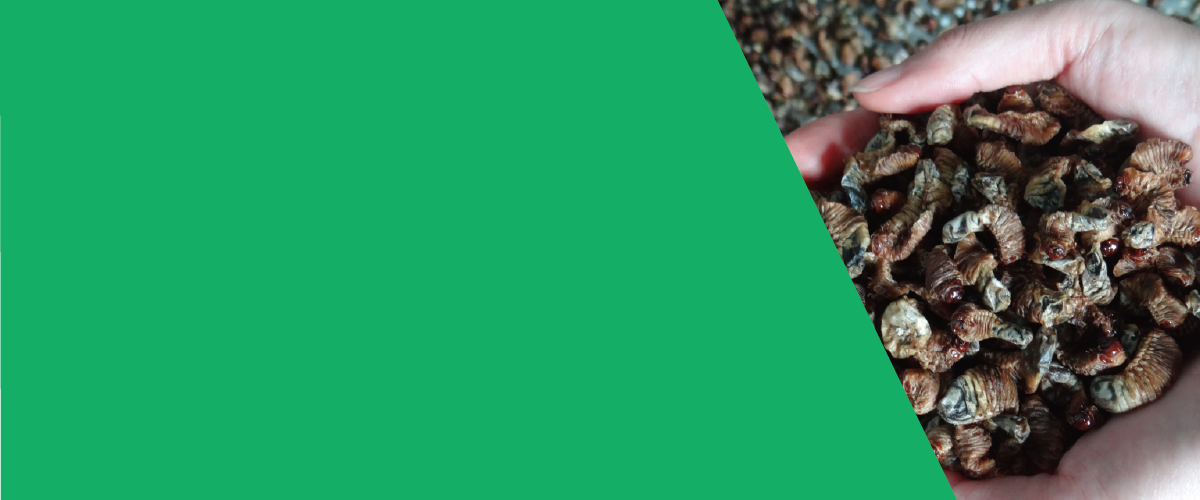
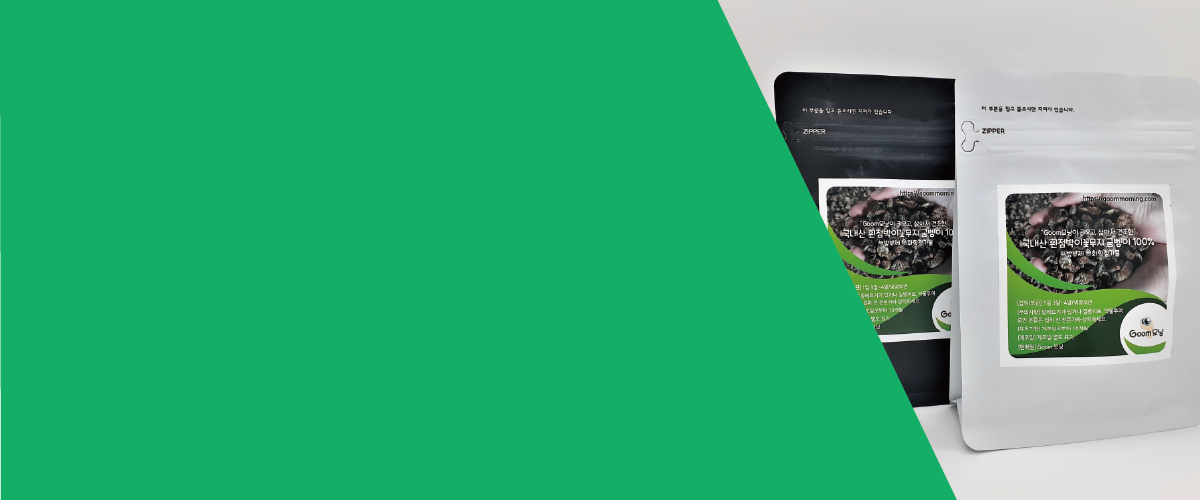
메인 탭1 이미지 변경

Changed region(s): [[0.5858, 0.0, 1.0, 1.0]]

diff --git a/theme/basic/skin/board/gallery_prd/style.css b/theme/basic/skin/board/gallery_prd/style.css
@@ -138,7 +138,7 @@ box-shadow:inset 0 2px 5px rgb(33, 135, 202)}
 #bo_gall .bo_tit {display:block;line-height:30px;font-weight:bold;color:rgb(37, 37, 37);font-size:1.2em;letter-spacing:-1px;word-spacing:-2px;}
 #bo_gall .bo_tit .cnt_cmt {background:#e9eff5;color:#3a8afd;font-size:11px;height:16px;line-height:16px;padding:0 5px;border-radius:3px;vertical-align:middle}
 
-#bo_gall .bo_cnt {color:#acacac;line-height:18px}
+#bo_gall .bo_cnt {color:#acacac;line-height:18px;display:none;}
 #bo_gall .profile_img img {border-radius:50%}
 #bo_gall .bo_tit .fa-download {width:16px;height:16px;line-height:16px;background:#e89f31;color:#fff;text-align:center;font-size:10px;border-radius:2px;margin-right:2px;vertical-align:middle}
 #bo_gall .bo_tit .fa-link {width:16px;height:16px;line-height:16px;background:#ad68d8;color:#fff;text-align:center;font-size:10px;border-radius:2px;margin-right:2px;vertical-align:middle;font-weight:normal}
